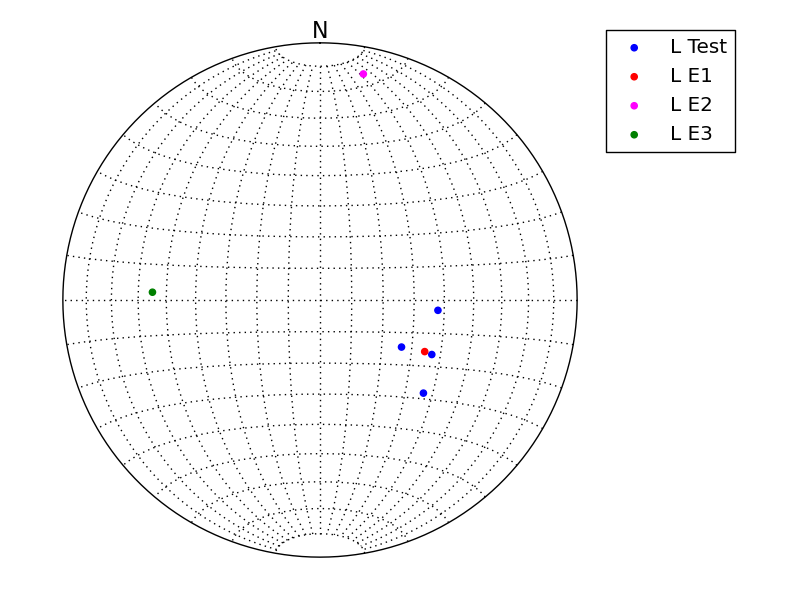
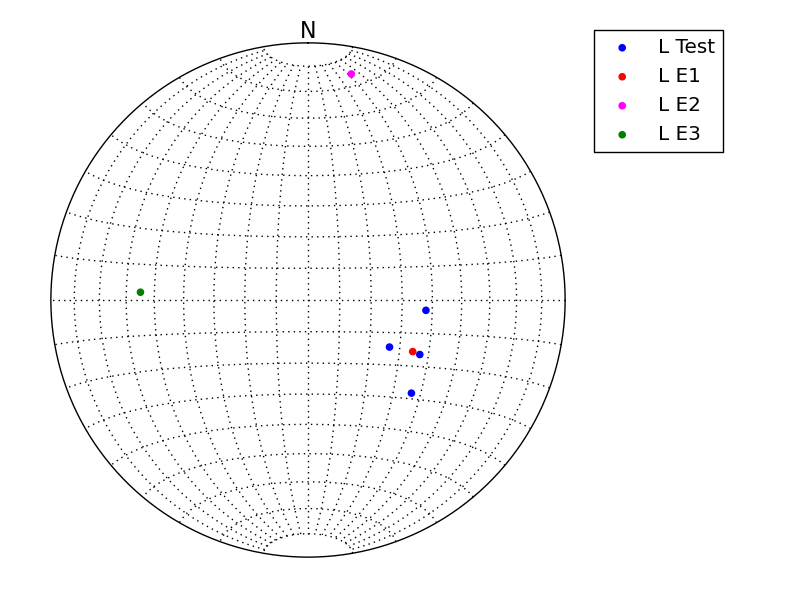
Docs updated

diff --git a/apsg.py b/apsg.py
@@ -867,7 +867,7 @@ class SchmidtNet(object):
             lbl[lbl.index(next(l for l in lbl if l.startswith('0')))] = 'E'
             cb.set_ticklabels(lbl)
         #finish
-        plt.subplots_adjust(left=0.02, bottom=0.05, right=0.78, top=0.95)
+        plt.subplots_adjust(left=0.02, bottom=0.05, right=0.75, top=0.95)
         self.fig.canvas.draw()
         plt.show()
         plt.ioff()

diff --git a/README.md b/README.md
@@ -288,7 +288,7 @@ Any `Fol`, `Lin`, `Pole`, `Vec3' or`Dataset\` object could be visualized in Schm
 
 ~~~~ {.python}
 >>> SchmidtNet(Fol(214,55), Lin(120,60), Pole(240,60), Vec3([-1,-2,1]))
-<apsg.SchmidtNet object at 0x7f683166ad90>
+<apsg.SchmidtNet object at 0x7f6abaf5fd50>
 ~~~~
 
 ![](figures/apsg_figure28_1.png)

diff --git a/apsg.md b/apsg.md
@@ -411,7 +411,7 @@ be visualized in Schmidt projection:
 
 ~~~~{.python}
 >>> SchmidtNet(Fol(214,55), Lin(120,60), Pole(240,60), Vec3([-1,-2,1]))
-<apsg.SchmidtNet object at 0x7f683166ad90>
+<apsg.SchmidtNet object at 0x7f6abaf5fd50>
 
 ~~~~~~~~~~~~~
 
